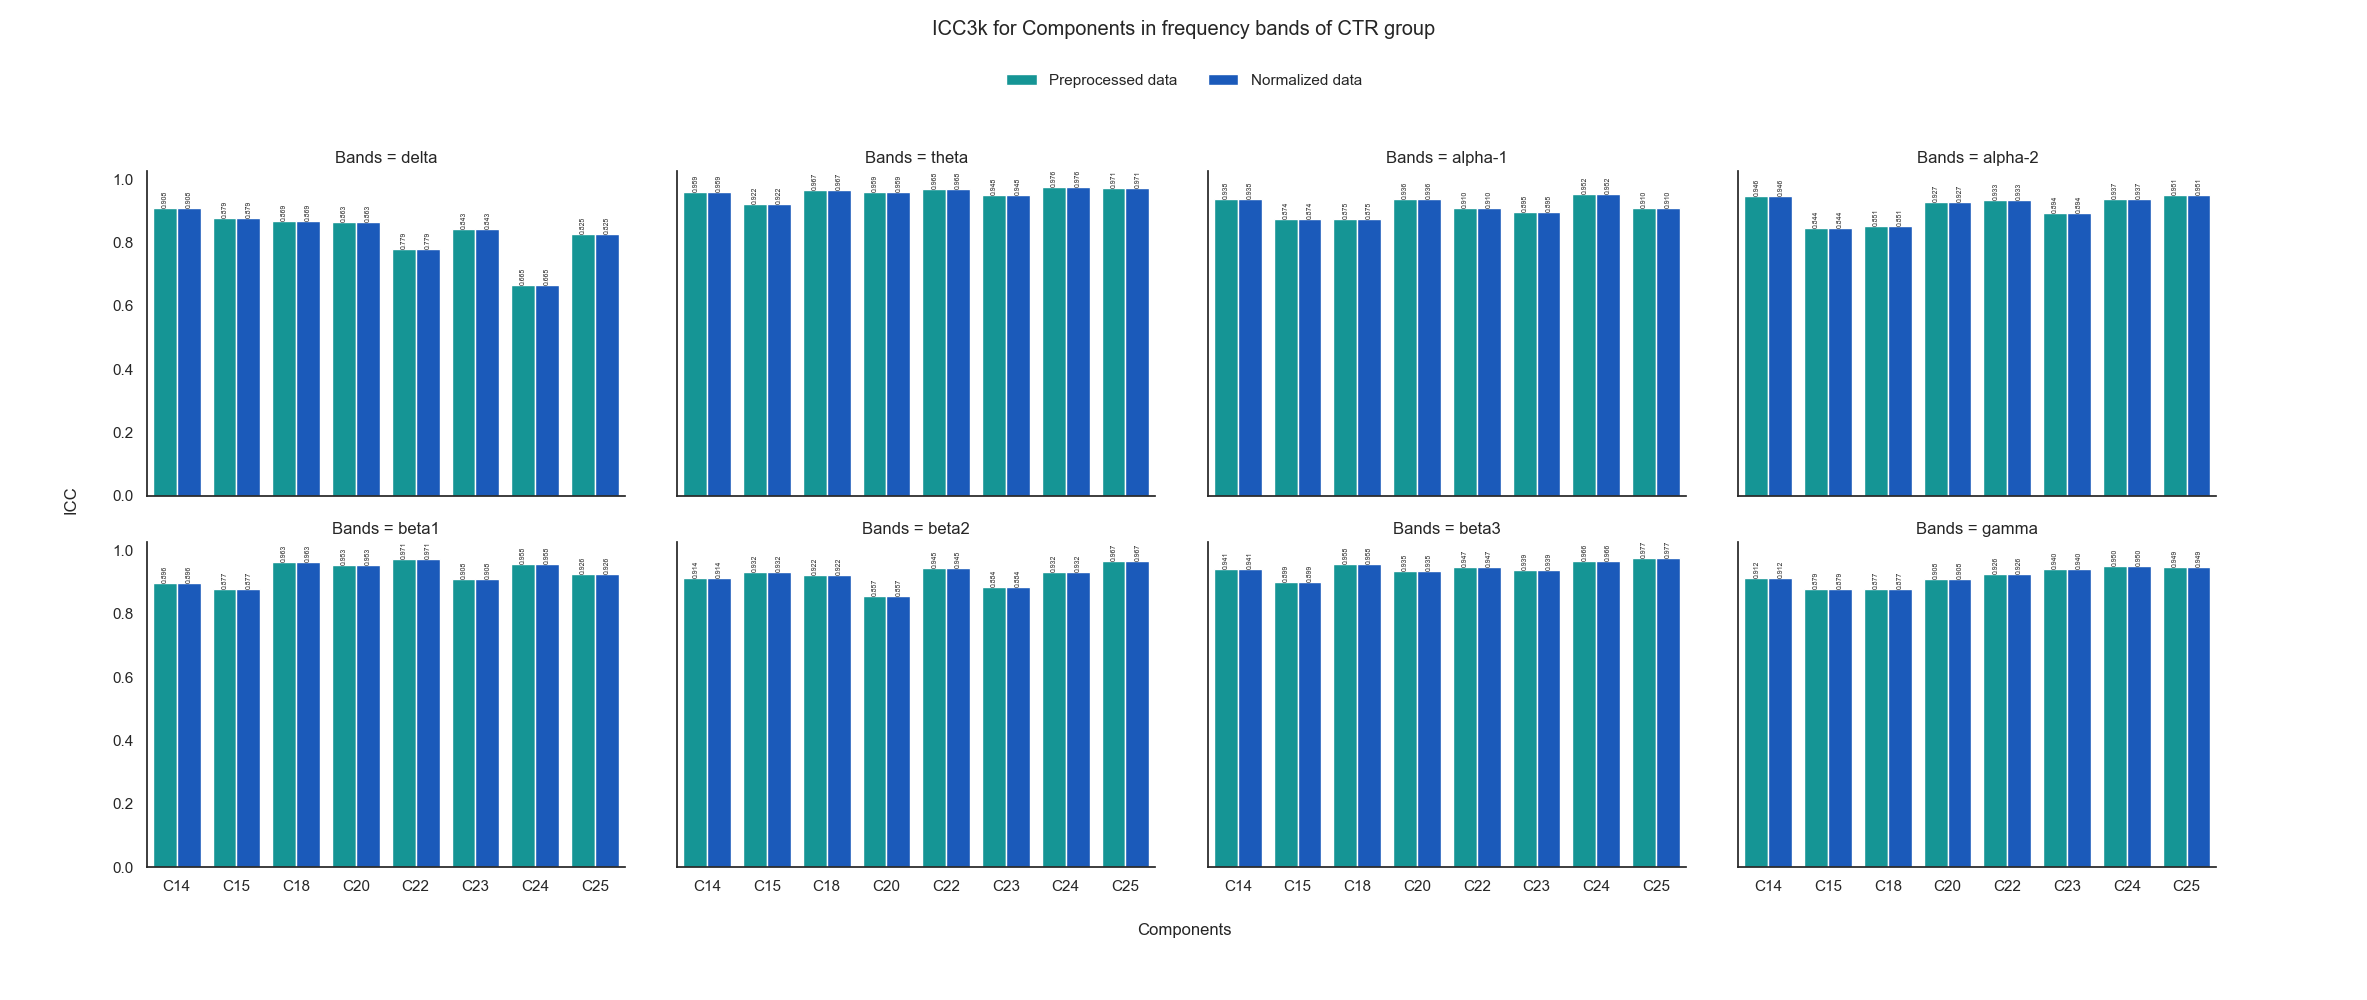
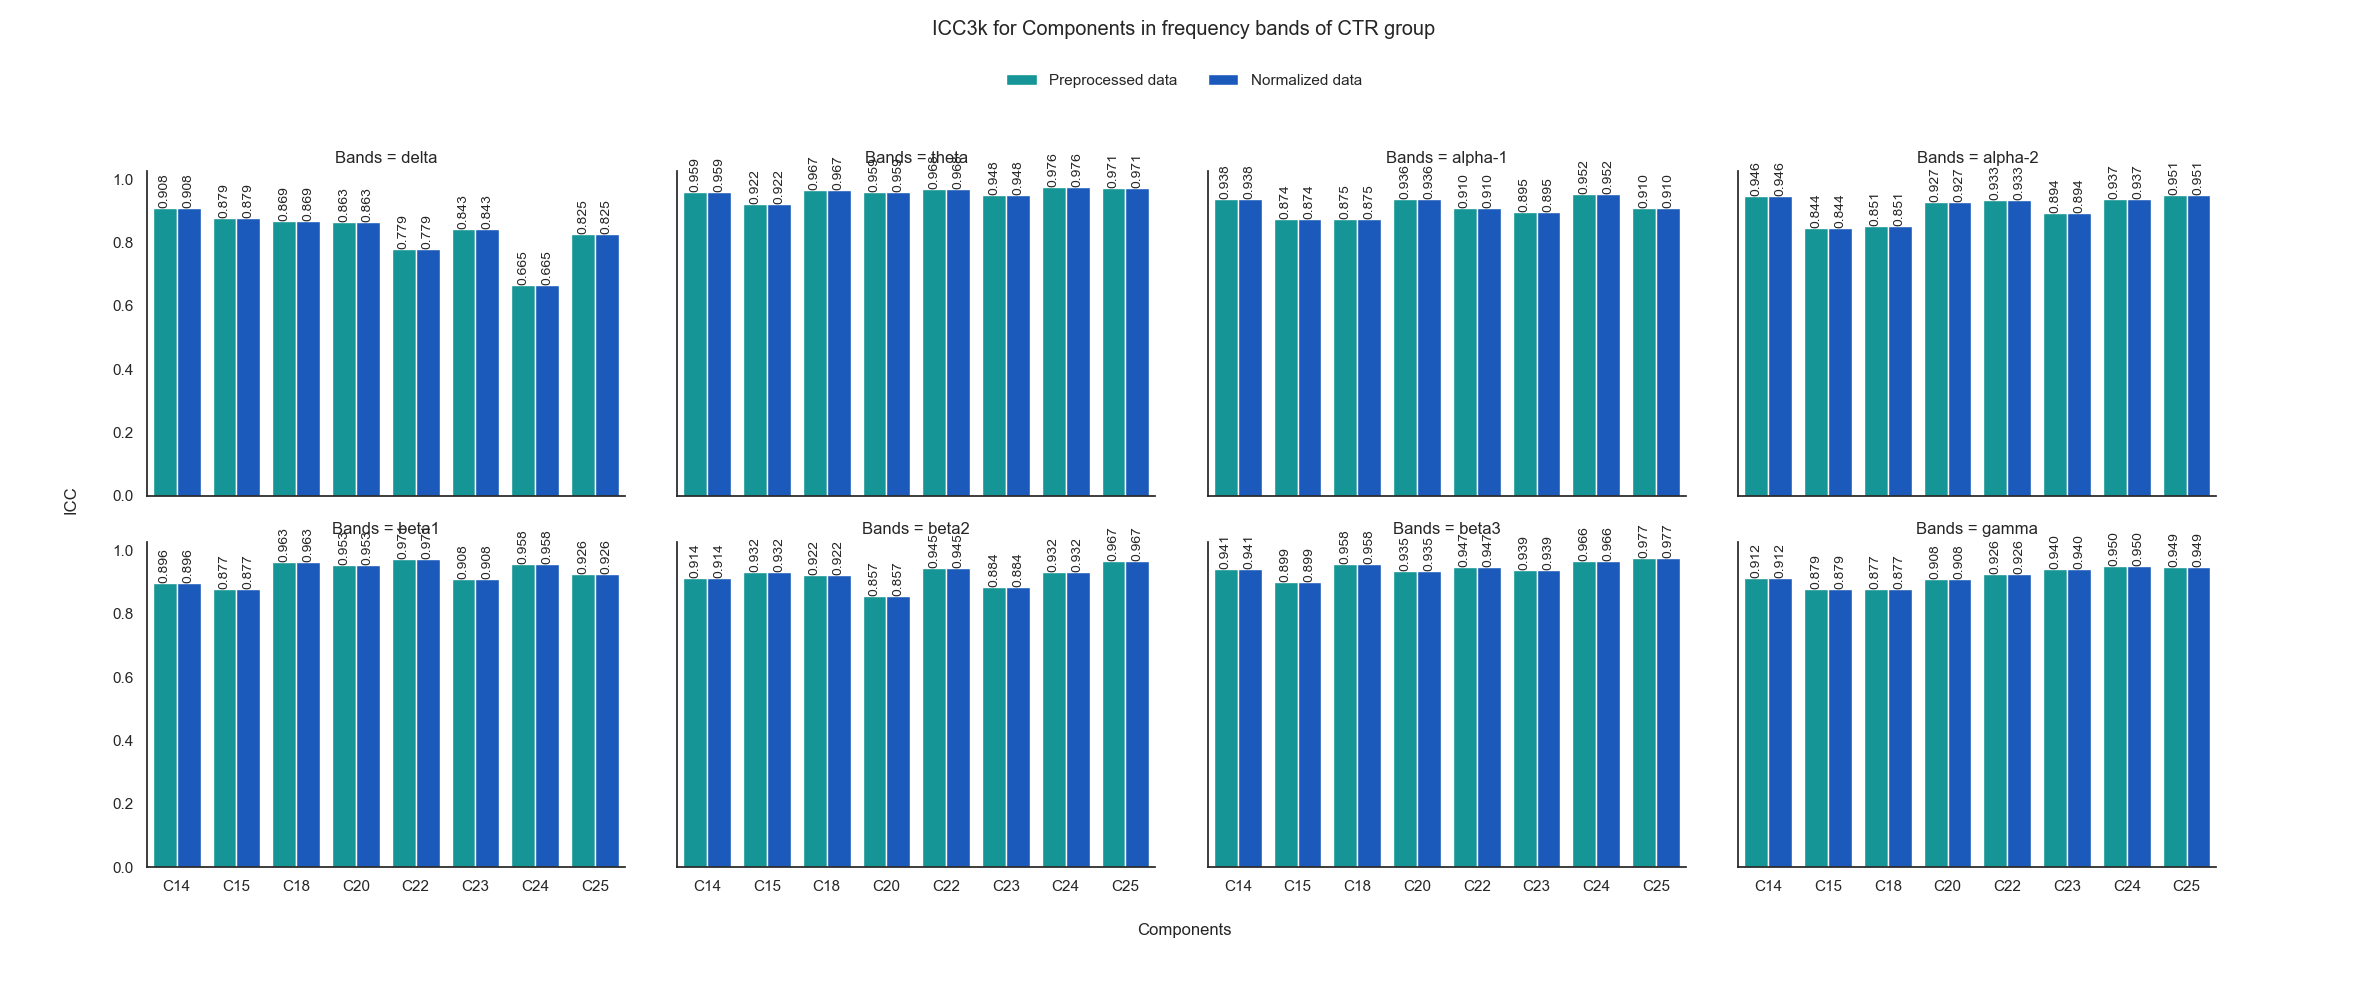
Graficos ICC e inicio de Stats

diff --git a/sovaharmony/Stats.py b/sovaharmony/Stats.py
@@ -1,0 +1,124 @@
+import glob
+import os
+import pandas as pd
+import numpy as np
+import seaborn as sns
+import matplotlib.pyplot as plt
+import statsmodels.api as sm
+from scipy import stats
+import numpy as np
+import pandas as pd 
+import collections
+import scipy.io
+from tokenize import group
+import pingouin as pg
+from scipy.stats import shapiro
+from scipy.stats import ttest_ind
+from scipy.stats import wilcoxon
+from scipy.stats import mannwhitneyu
+from scipy.stats import pearsonr
+from scipy.stats import spearmanr
+
+datos1=pd.read_feather(r"eeg_harmonization\sovaharmony\Reproducibilidad\Data_csv_Powers_Componentes-Channels\longitudinal_data_powers_long_CE_components.feather") 
+datos2=pd.read_feather(r"eeg_harmonization\sovaharmony\Reproducibilidad\Data_csv_Powers_Componentes-Channels\longitudinal_data_powers_long_CE_norm_components.feather")
+datos=pd.concat((datos1, datos2))#Original Data
+print(len(datos1))
+print(len(datos2))
+
+# Description
+Description=datos.groupby(by='Group').describe()
+Description.to_csv('Description_Stats.csv', sep=';')
+
+# ANOVA mix
+#aov = pg.mixed_anova(data = datos, dv = 'Powers', between = 'Group', within = 'Session',subject = 'Subject')
+#pg.print_table(aov)
+
+# Comparaciones post hoc 
+#post_hoc  = pg.pairwise_ttests(data = datos, dv = 'Powers', between = 'group', subject = 'subject', within = 'visit', parametric = False, padjust = 'fdr_bh', effsize = 'hedges')
+#pg.print_table(post_hoc, floatfmt='.3f')
+
+####
+
+# Entre grupos (La diferencia las medias es estadísticamente significativa)
+stat,p=mannwhitneyu(datos[datos.Group == 'CTR']['Powers'],datos[datos.Group == 'G2']['Powers'])
+print('stat=%.3f, p=%.3f' % (stat, p))
+# Entre sesiones del mismo grupo
+statw, pw = wilcoxon(datos[datos.Session.isin(['V0']) & datos.Group.isin(['CTR'])][:4400],datos[datos.Session.isin(['V1']) & datos.Group.isin(['CTR'])])
+print('statw=%.3f, pw=%.3f' % (statw, pw))
+
+
+def pair_data(datos,components):
+    #datos=datos.drop(datos[datos['Session']=='V4P'].index)#Borrar datos
+    datos['Session']=datos['Session'].replace({'VO':'V0','V4P':'V4'})
+    groups=['CTR','G2'] # Pair groups 
+    datos=datos[datos.Components.isin(components) ] # Only data of components select
+    datos=datos[datos.Group.isin(groups) ] #Only data of CTR y G2
+    visitas=['V0','V1','V2','V3']
+    #Script for drop subjects without four sessions select
+    for i in groups:
+        g=datos[datos['Group']==i]
+        sujetos=g['Subject'].unique()
+        print('Cantidad de sujetos de '+i+': ', len(sujetos))
+        k=0
+        for j in sujetos:
+            s=g[g['Subject']==j]
+            if len(s['Session'].unique()) !=4:
+                k=k+1
+                datos=datos.drop(datos[datos['Subject']==j].index)
+            if len(s['Session'].unique()) ==4:
+                v=s['Session'].unique()
+                for vis in range(len(visitas)):
+                    datos.loc[(datos.Subject==j)&(datos.Session==v[vis]),'Session']=visitas[vis]     
+        print('Sujetos a borrar:', k)
+        print('Sujetos a analizar con 4 visitas: ',len(sujetos)-k)
+    for i in groups:
+        g=datos[datos['Group']==i]
+        print('Cantidad de sujetos al filtrar '+ i+': ',len(g['Subject'].unique()))
+    #datos['Group']=datos['Group'].replace({'CTR':'Control','G2':'Control'})
+    print('Visitas de los sujetos: ',datos['Session'].unique())
+    return datos
+
+components=['C14', 'C15','C18', 'C20', 'C22','C23', 'C24', 'C25' ] #Neuronal components
+datos=pair_data(datos,components) #Datos filtrados
+
+bandas=datos['Bands'].unique()
+Stage=datos['Stage'].unique()
+icc_value = pd.DataFrame(columns=['ICC','F','df1','df2','pval','CI95%'])
+G=['CTR','G2']
+for st in Stage:
+    d_stage=datos[datos['Stage']==st] 
+    for g in G:
+        d_group=d_stage[d_stage['Group']==g]
+        dic={}
+        icc_comp=[]
+        for comp in components:
+            print(comp)
+            d_comp=d_group[d_group['Components']==comp]
+            visits=list(d_comp['Session'].unique())
+            matrix_c=pd.DataFrame(columns=['index','Session', 'Power','Bands','Group','Stage','Subject']) #Se le asigna a un dataframe los datos d elas columnas
+            subjects=d_comp['Subject'].unique() 
+            for vis in visits:
+                matrix_s=pd.DataFrame(columns=['index','Session', 'Power','Bands','Group','Stage','Subject'])
+                power=d_comp[d_comp['Session']==vis]['Powers'].tolist()
+                n_vis=[vis]*len(power)
+                #print(len(n_vis))
+                matrix_s['Session']=n_vis
+                matrix_s['Power']=power  
+                matrix_s['Group']=d_comp[d_comp['Session']==vis]['Group'].tolist()
+                matrix_s['Bands']=d_comp[d_comp['Session']==vis]['Bands'].tolist()
+                matrix_s['Stage']=d_comp[d_comp['Session']==vis]['Stage'].tolist()
+                matrix_s['Subject']=d_comp[d_comp['Session']==vis]['Subject'].tolist()
+
+                matrix_c=matrix_c.append(matrix_s, ignore_index = True)            
+            
+            index=list(np.arange(0,len(n_vis),1))*len(visits)
+            matrix_c['index']=index
+
+            for i,ban in enumerate(bandas):
+                fil_bands=matrix_c['Bands']==ban
+                filter=matrix_c[fil_bands]
+                data=filter
+                # Resumen descriptivo
+                #data.summary_cont(data.groupby(['Group', 'Session'])['ROI_F_aDelta'])
+                
+

diff --git a/sovaharmony/Reproducibilidad/ICC_graphic.py b/sovaharmony/Reproducibilidad/ICC_graphic.py
@@ -25,7 +25,7 @@ def barplot_icc_nB_1G(icc_data,x_value,group,plot=False,save=False):
         for c in axs.containers:
             labels = [f'{(v.get_height()):.3f}' for v in c]
             #axs.bar_label(c, labels=labels, label_type='center',size=7,rotation='vertical',color='w')
-            axs.bar_label(c, labels=labels, label_type='edge',size=5,rotation='vertical')
+            axs.bar_label(c, labels=labels, label_type='edge',size=10,rotation='vertical')
         #axs.margins(y=0.02)
     if save==True:
         plt.savefig(r'eeg_harmonization\sovaharmony\Reproducibilidad\ICC_Graphics\ICC_{name_group}_{tipo}.png'.format(name_group=group,tipo=x_value))
@@ -51,7 +51,7 @@ def barplot_icc_comp_nG(icc_data,x_value,plot=False,save=False):
         for c in axs.containers:
             labels = [f'{(v.get_height()):.3f}' for v in c]
             #axs.bar_label(c, labels=labels, label_type='center',size=7,rotation='vertical', color='w')
-            axs.bar_label(c, labels=labels, label_type='edge',size=5,rotation='vertical')
+            axs.bar_label(c, labels=labels, label_type='edge',size=10,rotation='vertical')
         #axs.margins(y=0.02)
     if save==True:
         plt.savefig(r'eeg_harmonization\sovaharmony\Reproducibilidad\ICC_Graphics\ICC_Comparacióngrupos_{tipo}.png'.format(tipo=x_value))
@@ -60,8 +60,8 @@ def barplot_icc_comp_nG(icc_data,x_value,plot=False,save=False):
         plt.show()
 
 
-pl = True
-sa = False    
+pl = False
+sa = True   
 
 barplot_icc_comp_nG(icc_data_Roi[icc_data_Roi['Stage']=='Normalized data'],'Roi',plot=pl,save=sa)
 barplot_icc_comp_nG(icc_data_Comp[icc_data_Comp['Stage']=='Normalized data'],'Components',plot=pl,save=sa)
